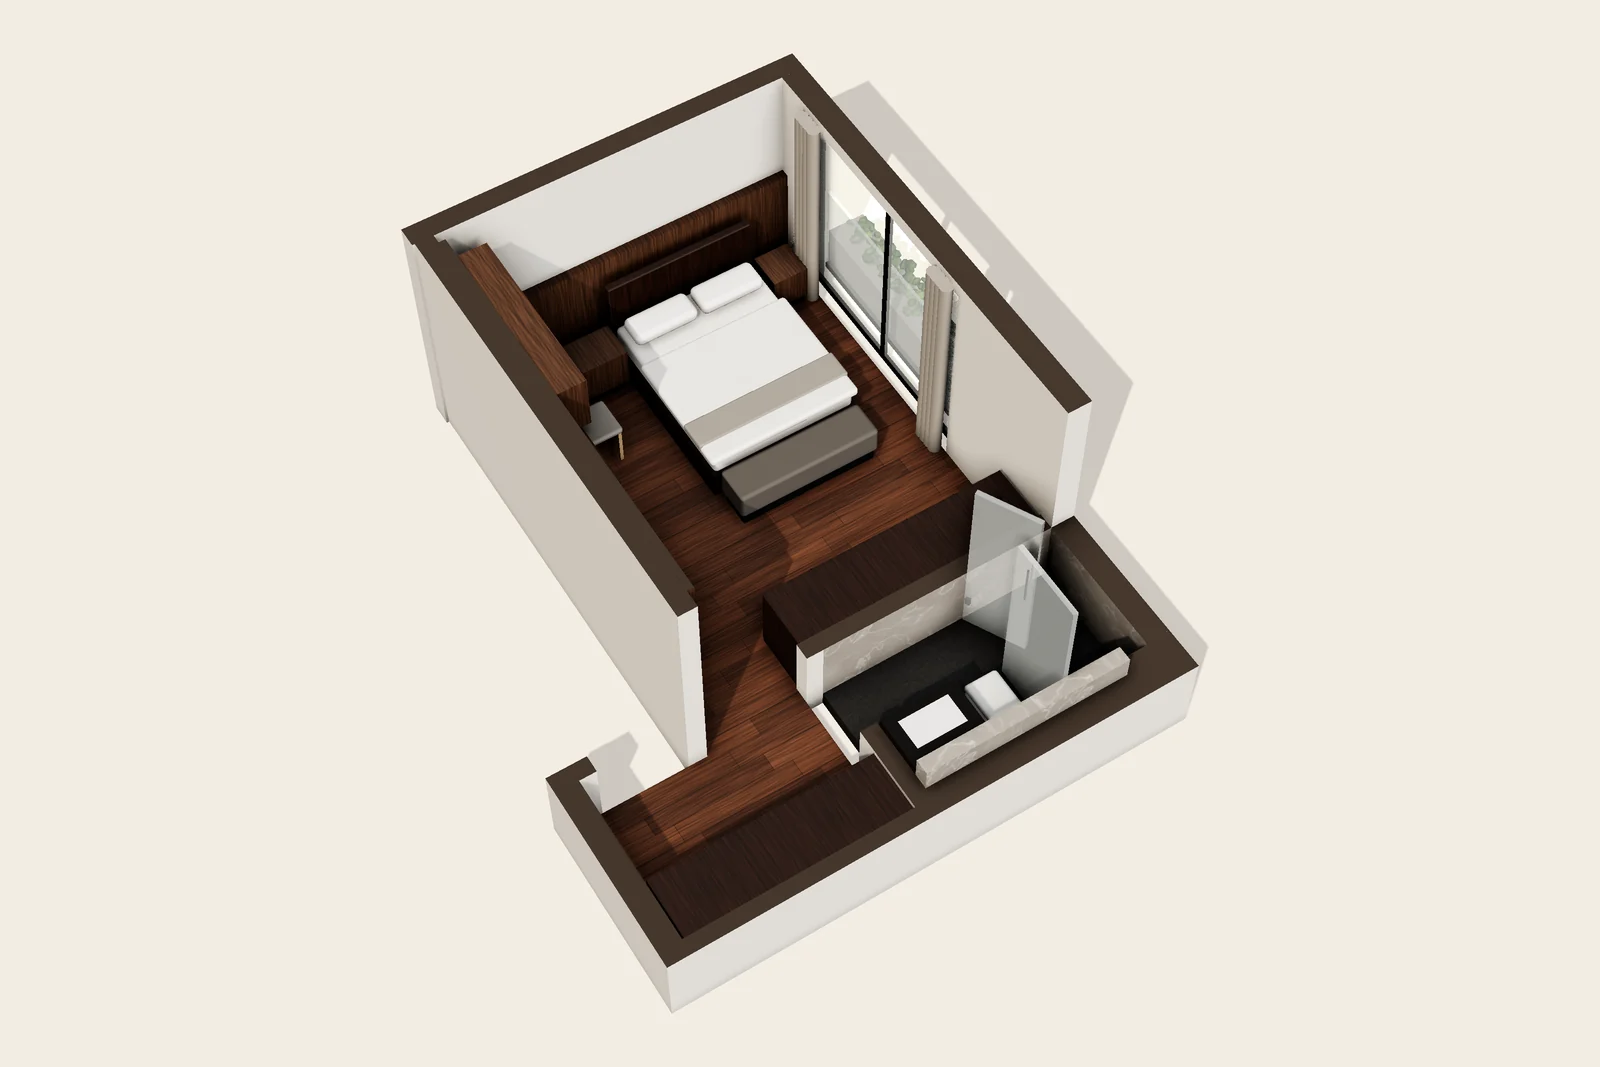
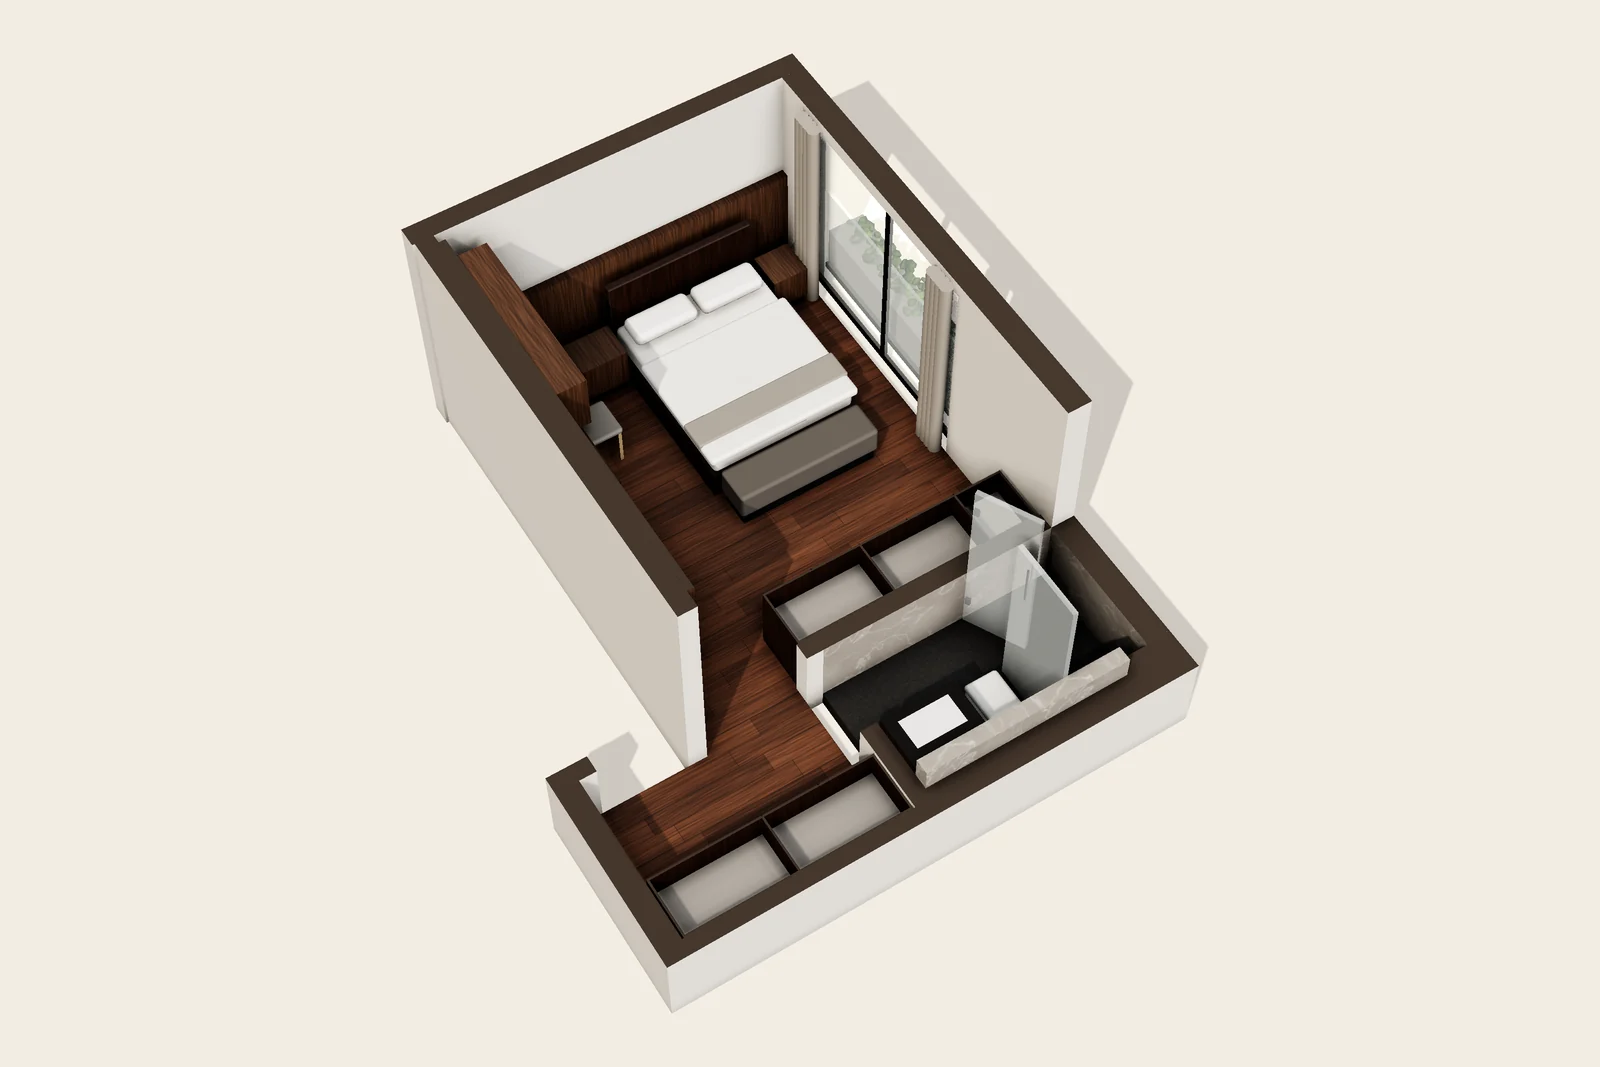
3D: living room and balcony from the photos; cut wardrobes drawn open
From the owner: follow the photos, not the plan.
- Living room as photographed: walnut panelling across the TV wall,
  floating console, two tall speakers, the sofa facing the TV with the
  coffee table and both ottomans in front of it.
- Open balcony: no furniture, no planters along the side screens;
  tall slatted screens at the sides, a black railing along the front
  with the hedge behind it, browner deck boards.
- No bar stools at the kitchen island.
- Wardrobes on the camera side are drawn cut open (panels in section,
  grey interior, shelf) instead of as low boxes, which read as benches
  in the entrance foyer; side screens are cut the same way. In Walk
  around everything is full height.

Changed region(s): [[0.4062, 0.7113, 0.5938, 0.866], [0.4688, 0.433, 0.6562, 0.6186]]

diff --git a/assets/js/rooms3d.js b/assets/js/rooms3d.js
@@ -149,6 +149,7 @@ export function materials() {
   const tex = {
     floor: texture(1024, 2.4, planks({ seed: 3, dark: 0x3e2517, light: 0x7a4b2f, rows: 13 })),   // 18 cm boards
     deck: texture(1024, 2.4, planks({ seed: 9, dark: 0x8a7766, light: 0xb7a48f, rows: 12, seam: 0.7 })),
+    deckWarm: texture(1024, 2.4, planks({ seed: 41, dark: 0x5e4535, light: 0x8f6f58, rows: 12, seam: 0.7 })),
     walnut: texture(1024, 1.2, veneer({ seed: 5, dark: 0x3a2619, light: 0x6e4a32 })),
     marble: texture(1024, 1.2, marble({ seed: 11, base: 0x9a948d, vein: 0xd9d4cc })),
     granite: texture(512, 0.6, speckle({ seed: 13, base: 0x2d2c2b, amount: 0.04 })),
@@ -163,6 +164,7 @@ export function materials() {
     poche: std({ color: 0x3b3129, roughness: 1 }),
     floor: std({ map: tex.floor, roughness: 0.5 }),
     deck: std({ map: tex.deck, roughness: 0.85 }),
+    deckWarm: std({ map: tex.deckWarm, roughness: 0.85 }),
     stone: std({ map: tex.granite, roughness: 0.45 }),
     limestone: std({ map: tex.limestone, roughness: 0.35 }),
     darkStone: std({ map: tex.darkStone, roughness: 0.3 }),
@@ -192,6 +194,7 @@ export function materials() {
     tile: std({ map: tex.tile, roughness: 0.5 }),
     paving: std({ map: tex.paving, roughness: 0.8 }),
     carPaint: std({ color: 0x3b4044, roughness: 0.25, metalness: 0.6 }),
+    interior: std({ color: 0x8f8b86, roughness: 0.8 }),
     ceiling: std({ color: 0xf2efea, roughness: 0.95, emissive: 0xf2efea, emissiveIntensity: 0.35 }),
     pot: std({ color: 0x4f4b47, roughness: 0.8 }),
     leaf: std({ color: 0x4a6636, roughness: 0.8, flatShading: true }),
@@ -251,7 +254,7 @@ export class Builder {
     const mesh = new THREE.Mesh(geo, [this.m[mat], this.m.poche]);
     mesh.position.y = lift;
     this.floors.push(poly);
-    if (mat !== "deck") this.roofed.push(poly);
+    if (!mat.startsWith("deck")) this.roofed.push(poly);   // outdoor decks have no ceiling
     return this.add(mesh);
   }
 
@@ -401,18 +404,48 @@ export class Builder {
     this.box(x0 + 4, y0 + 4, x1 - 4, y1 - 4, 0, 0.14, "black");
   }
 
-  // Full height, so it is cut with the walls when it stands on the camera side.
+  // Full height, so it is cut with the walls when it stands on the camera side; cut, it shows as a
+  // wardrobe sliced open (openCarcass) rather than a low solid box, which would read as a bench.
   wardrobe(x0, y0, x1, y1, front, h = this.H - 0.05) {
     const body = this.wall(x0, y0, x1, y1, { h1: h, mat: "walnutDark", furniture: true });
     const alongY = front === "e" || front === "w";
     const [a, b] = alongY ? [y0, y1] : [x0, x1];
     const doors = Math.max(2, Math.round(px(b - a) / 0.5));
+    body.cutAs = () => this.openCarcass(x0, y0, x1, y1, alongY, doors);
     for (let i = 1; i < doors; i++) {
       const p = a + (b - a) * i / doors;
       const g = { n: [p - 0.6, y0 - 0.6, p + 0.6, y0 + 1], s: [p - 0.6, y1 - 1, p + 0.6, y1 + 0.6],
         w: [x0 - 0.6, p - 0.6, x0 + 1, p + 0.6], e: [x1 - 1, p - 0.6, x1 + 0.6, p + 0.6] }[front];
       this.wall(...g, { h0: 0.02, h1: h - 0.02, mat: "black", furniture: true, follow: body });
     }
+  }
+
+  // A wardrobe cut at LOW: panels and doors in section (dark tops, like the cut walls), its grey
+  // interior with a shelf, and a partition between every second pair of doors.
+  openCarcass(x0, y0, x1, y1, alongY, doors) {
+    const group = new THREE.Group(), t = 2.5;   // 2 cm panels
+    const cut = [this.m.walnutDark, this.m.walnutDark, this.m.poche, this.m.walnutDark, this.m.walnutDark, this.m.walnutDark];
+    const panel = (a, b, c, d, h0, h1, mat) => {
+      const w = px(c - a), dd = px(d - b), geo = new THREE.BoxGeometry(w, h1 - h0, dd);
+      metricUV(geo, w, h1 - h0, dd);
+      const mesh = new THREE.Mesh(geo, mat);
+      mesh.position.set(px(a + c) / 2, (h0 + h1) / 2, px(b + d) / 2);
+      mesh.castShadow = mesh.receiveShadow = true;
+      group.add(mesh);
+    };
+    panel(x0, y0, x1, y0 + t, 0, LOW, cut);
+    panel(x0, y1 - t, x1, y1, 0, LOW, cut);
+    panel(x0, y0, x0 + t, y1, 0, LOW, cut);
+    panel(x1 - t, y0, x1, y1, 0, LOW, cut);
+    panel(x0 + t, y0 + t, x1 - t, y1 - t, 0, 0.1, this.m.interior);
+    panel(x0 + t, y0 + t, x1 - t, y1 - t, 0.44, 0.46, this.m.interior);
+    for (let i = 2; i < doors; i += 2) {
+      const p = (alongY ? y0 + (y1 - y0) * i / doors : x0 + (x1 - x0) * i / doors);
+      if (alongY) panel(x0 + t, p - t / 2, x1 - t, p + t / 2, 0, LOW, cut);
+      else panel(p - t / 2, y0 + t, p + t / 2, y1 - t, 0, LOW, cut);
+    }
+    this.group.add(group);
+    return group;
   }
 
   // Curtain gathered at the side of a window: a row of vertical folds.
@@ -484,18 +517,21 @@ export class Builder {
     part(new THREE.CylinderGeometry(R * 0.45, R * 0.45, 0.03, 48), "black", 0, 0.015, 0);
   }
 
+  // Round, in tiers: a black glass top on a polished drum, over a wider black glass disc.
   coffeeTable(cx, cy, r) {
     this.solid(cx - r, cy - r, cx + r, cy + r);
     const part = this.piece(cx, cy, 0), R = px(r);
-    part(new THREE.CylinderGeometry(R, R, 0.04, 64), "tv", 0, 0.4, 0);
-    part(new THREE.CylinderGeometry(R * 0.82, R * 0.82, 0.36, 64), "brass", 0, 0.19, 0);
+    part(new THREE.CylinderGeometry(R, R, 0.03, 64), "tv", 0, 0.1, 0);
+    part(new THREE.CylinderGeometry(R * 0.78, R * 0.78, 0.26, 64), "chrome", 0, 0.24, 0);
+    part(new THREE.CylinderGeometry(R * 0.8, R * 0.8, 0.03, 64), "tv", 0, 0.385, 0);
   }
 
-  barStool(cx, cy) {
+  // A tall slim floor speaker: wooden slatted body on a polished stem.
+  speaker(cx, cy) {
+    this.solid(cx - 8, cy - 8, cx + 8, cy + 8);
     const part = this.piece(cx, cy, 0);
-    part(new THREE.CylinderGeometry(0.19, 0.19, 0.07, 32), "chairFabric", 0, 0.68, 0);
-    part(new THREE.CylinderGeometry(0.02, 0.02, 0.64, 12), "chrome", 0, 0.32, 0);
-    part(new THREE.CylinderGeometry(0.2, 0.2, 0.02, 32), "chrome", 0, 0.01, 0);
+    part(new THREE.CylinderGeometry(0.015, 0.06, 0.9, 16), "chrome", 0, 0.45, 0);
+    part(new RoundedBoxGeometry(0.13, 1.05, 0.09, 3, 0.03), "oak", 0, 1.43, 0);
   }
 
   ottoman(cx, cy, s = 25) {
@@ -512,19 +548,6 @@ export class Builder {
     this.box(...s(0, 0, 0.07, 1), 0.4, 0.64, "sofa", { round: 0.05 });
     this.box(...s(0.93, 0, 1, 1), 0.4, 0.64, "sofa", { round: 0.05 });
     for (let i = 0; i < 3; i++) this.box(...s(0.07 + i * 0.86 / 3 + 0.005, 0.24, 0.07 + (i + 1) * 0.86 / 3 - 0.005, 0.98), 0.4, 0.55, "sofa", { round: 0.06 });
-  }
-
-  // A round outdoor lounger.
-  daybed(cx, cy, r) {
-    this.solid(cx - r, cy - r, cx + r, cy + r);
-    const part = this.piece(cx, cy, 0), R = px(r);
-    part(new THREE.CylinderGeometry(R, R * 0.92, 0.32, 48), "pot", 0, 0.16, 0);
-    part(new THREE.CylinderGeometry(R * 0.93, R * 0.93, 0.12, 48), "sofa", 0, 0.38, 0);
-  }
-
-  sideTable(cx, cy, r) {
-    this.solid(cx - r, cy - r, cx + r, cy + r);
-    this.piece(cx, cy, 0)(new THREE.CylinderGeometry(px(r), px(r), 0.45, 32), "pot", 0, 0.225, 0);
   }
 
   // A car parked along x (the plan draws one in the car porch), for scale.
@@ -553,17 +576,28 @@ export class Builder {
     }
   }
 
-  // Black vertical slats along a rectangle's long side: a privacy screen.
-  slats(x0, y0, x1, y1, h = 1.2) {
-    this.solid(x0, y0, x1, y1);
-    const alongY = y1 - y0 > x1 - x0, [a, b] = alongY ? [y0, y1] : [x0, x1], n = Math.round(px(b - a) / 0.1);
-    for (let i = 0; i < n; i++) {
-      const p = a + (b - a) * (i + 0.5) / n;
-      if (alongY) this.box(x0, p - 2, x1, p + 2, 0, h, "black");
-      else this.box(p - 2, y0, p + 2, y1, 0, h, "black");
-    }
-    if (alongY) this.box(x0, y0, x1, y1, h, h + 0.04, "black");
-    else this.box(x0, y0, x1, y1, h, h + 0.04, "black");
+  /* Black vertical bars along a rectangle's long side, with a top rail: a slatted privacy screen,
+     or (bar 2, pitch 0.11 m) a railing. Cut with the walls when it stands on the camera side. */
+  slats(x0, y0, x1, y1, h = 1.2, { bar = 4, pitch = 0.1 } = {}) {
+    const w = this.wall(x0, y0, x1, y1, { h1: h, mat: "black", furniture: true });
+    const build = (top) => {
+      const group = new THREE.Group(), alongY = y1 - y0 > x1 - x0, [a, b] = alongY ? [y0, y1] : [x0, x1];
+      const n = Math.round(px(b - a) / pitch), piece = (r, h0, h1) => {
+        const mesh = new THREE.Mesh(new THREE.BoxGeometry(px(r[2] - r[0]), h1 - h0, px(r[3] - r[1])), this.m.black);
+        mesh.position.set(px(r[0] + r[2]) / 2, (h0 + h1) / 2, px(r[1] + r[3]) / 2);
+        mesh.castShadow = mesh.receiveShadow = true;
+        group.add(mesh);
+      };
+      for (let i = 0; i < n; i++) {
+        const p = a + (b - a) * (i + 0.5) / n;
+        piece(alongY ? [x0, p - bar / 2, x1, p + bar / 2] : [p - bar / 2, y0, p + bar / 2, y1], 0, top);
+      }
+      piece([x0, y0, x1, y1], top, top + 0.04);
+      this.group.add(group);
+      return group;
+    };
+    w.fullAs = () => build(h);
+    w.cutAs = () => build(LOW - 0.04);
   }
 
   ledge(x0, y0, x1, y1, h = 1.0) { this.solid(x0, y0, x1, y1); this.box(x0, y0, x1, y1, 0, h, "marble"); }
@@ -608,8 +642,8 @@ export class Builder {
     const xs = this.floors.flat().map((p) => p[0]), ys = this.floors.flat().map((p) => p[1]);
     this.centre = [(Math.min(...xs) + Math.max(...xs)) / 2, (Math.min(...ys) + Math.max(...ys)) / 2];
     for (const w of this.walls) {
-      w.full = this.wallMesh(w, w.h0, w.h1, w.h1 >= this.H - 1e-6);
-      w.low = w.h0 >= LOW ? null : w.h1 > LOW ? this.wallMesh(w, w.h0, LOW, true) : w.full;
+      w.full = w.fullAs ? w.fullAs() : this.wallMesh(w, w.h0, w.h1, w.h1 >= this.H - 1e-6);
+      w.low = w.h0 >= LOW ? null : w.h1 > LOW ? (w.cutAs ? w.cutAs() : this.wallMesh(w, w.h0, LOW, true)) : w.full;
     }
     this.setCut(null);
   }
@@ -932,12 +966,13 @@ export const ROOMS = {
 };
 
 // The 2nd floor (2nd-floor plan). The furniture follows the photos where they differ from the
-// plan: a round marble dining table for eight, a straight sofa and two ottomans.
+// plan (owner, 2026-10-21): a round marble dining table for eight, no stools at the island, the
+// living room as photographed, and an empty balcony with its hedge only along the front.
 function floor2(b) {
   b.floor([[227, 48], [1046, 48], [1046, 387], [1323, 387], [1323, 48], [1787, 48], [1787, 786], [163, 786], [163, 409], [227, 409]], "limestone");
   b.floor([[739, 585], [951, 585], [951, 775], [739, 775]], "stone", 0.004);     // powder room
   b.floor([[981, 585], [1171, 585], [1171, 777], [981, 777]], "deck", 0.004);    // lift car
-  b.floor([[1796, 37], [2285, 37], [2285, 805], [1796, 805]], "deck", -0.03);    // open balcony
+  b.floor([[1796, 37], [2289, 37], [2289, 805], [1796, 805]], "deckWarm", -0.03); // open balcony
 
   // outside walls (in lengths, so each is cut on its own); glazing at the rear and onto the balcony
   b.wall(202, 26, 739, 48);
@@ -996,7 +1031,6 @@ function floor2(b) {
   b.solid(346, 257, 595, 364);
   b.box(352, 257, 589, 340, 0, 0.88, "walnut");                      // island
   b.box(346, 257, 595, 364, 0.88, 0.93, "darkStone");
-  for (const x of [400, 470, 541]) b.barStool(x, 376);
 
   // wet kitchen
   b.counter(739, 57, 1016, 140);
@@ -1015,29 +1049,28 @@ function floor2(b) {
   b.toilet(769, 675, 815, 757);
   b.vanity(845, 692, 951, 757, [868, 702, 928, 740]);
 
-  // living room
-  b.wall(1400, 57, 1700, 64, { mat: "walnut" });                     // TV wall
-  b.wall(1451, 64, 1650, 70, { h0: 0.9, h1: 1.75, mat: "tv" });
-  b.solid(1412, 69, 1690, 110);
-  b.box(1412, 69, 1690, 110, 0.12, 0.42, "walnut");                  // console
-  b.sofa([1410, 600, 1710, 712], "n");
-  b.coffeeTable(1506, 503, 53);
-  b.ottoman(1428, 455);
-  b.ottoman(1428, 395);
+  // living room, as in the photos (not the plan): walnut panelling across the TV wall, a floating
+  // console, two tall speakers; a three-seat sofa facing the TV, round coffee table, two ottomans
+  b.wall(1353, 57, 1730, 64, { h1: 2.4, mat: "walnut" });           // TV wall
+  b.wall(1420, 64, 1650, 70, { h0: 0.95, h1: 2.05, mat: "tv" });
+  b.solid(1380, 64, 1700, 118);
+  b.box(1380, 64, 1700, 118, 0.15, 0.48, "walnut");                  // console
+  for (const x of [1487, 1593]) b.box(x - 0.5, 117.5, x + 0.5, 118.6, 0.17, 0.46, "black");
+  b.speaker(1398, 82);
+  b.speaker(1672, 82);
+  b.coffeeTable(1500, 242, 53);
+  b.ottoman(1606, 214, 29);
+  b.ottoman(1670, 214, 29);
+  b.sofa([1378, 352, 1683, 470], "n");
   b.curtain(1770, 97, 1784, 147);
   b.curtain(1770, 705, 1784, 755);
 
-  // open balcony: slatted screens at the sides, a planted edge at the front
-  b.slats(1796, 26, 2395, 37);
-  b.slats(1796, 805, 2395, 817);
-  b.planter(2285, 55, 2370, 790);
-  b.planter(1830, 40, 2270, 72);
-  b.planter(1830, 770, 2270, 802);
-  b.box(2378, 37, 2386, 805, 1.05, 1.1, "black");
-  for (let y = 37; y <= 805; y += 118) b.box(2377, y - 2, 2387, y + 2, 0, 1.05, "black");
-  b.daybed(2105, 590, 70);
-  b.sideTable(2147, 498, 25);
-  b.sideTable(2010, 635, 25);
+  // open balcony, as in the photos (not the plan): empty, tall slatted screens at the sides, a black
+  // railing along the front with the hedge planted behind it
+  b.slats(1796, 26, 2395, 37, 1.6);
+  b.slats(1796, 805, 2395, 817, 1.6);
+  b.slats(2283, 37, 2289, 805, 1.1, { bar: 2, pitch: 0.11 });
+  b.planter(2289, 45, 2390, 797);
 }
 
 // The 1st floor's shared part (1st-floor plan). Bedroom 1, its bathroom and the store are private

diff --git a/README.md b/README.md
@@ -32,7 +32,7 @@ This is a static template with no dependencies: plain HTML, CSS and a little van
 - **Prices:** shown on `index.html` (room cards), `rooms.html` (each room), `features.html` and `area.html` ("from S$…"), and the same pages in each language folder. Keep them all in step.
 - **Photos:** `assets/img/<room>/`, as **WebP, max 1600 px** (converted 2026-10-10; the site was 25 MB of JPEGs, now ~9 MB). Galleries are plain `<figure><img></figure>` lists, so add, remove or reorder freely. Any element with class `placeholder` stands in for a photo that hasn't been taken yet.
 - **Floor plans:** `assets/img/plans/` holds whole-floor plans with one area highlighted (rooms: one image per room and floor; Features: the shared spaces on floors 1, 2 and 5). They are drawn by `tools/floor_plans.py` from 300-dpi renders of the architect's PDF, which is kept **off** the repo (`~/Documents/`). The script relabels rooms with the site's names and holds each highlight's outline.
-- **3D room views:** each room's gallery starts with a 3D cutaway picture (`assets/img/<room>/*-3d.webp`; one each for Aurelia, Elysia 4, Elysia 3, Deluxe Queen 3/4, Deluxe Twin 3/4, and Deluxe Queen 1 and Deluxe Twin 1 with their rear terraces), and the Features floor plans are each preceded by a 3D picture of the shared spaces (`assets/img/features/shared-*-3d.webp`: 1st-floor entrance and car porch; 2nd-floor kitchen and dining, and living room and balcony; 5th-floor laundry). The 2nd floor's furniture follows the photos where they differ from the plan (round dining table, straight sofa) with an "Explore in 3D" button to `3d/`. The rooms are modelled once in `assets/js/rooms3d.js` from the architect's plan (walls, doors, windows and the plan's furniture layout, measured from the same 300-dpi renders) with finishes matched to the photos; both the pictures and `3d/` use it. After changing a room, re-render the pictures with `python3 tools/render_rooms_3d.py` (headless Chrome + Pillow; three.js loads from a CDN); `tools/rooms_3d.html?room=aurelia` on the local server shows one. Bathroom doors are pocket doors: the opening is where the plan draws a thin panel, the pocket where it draws three lines (the owner confirmed the queen rooms' doors on 2026-10-21). The wall behind a wardrobe is never cut, at the owner's choice. Captions say "illustrative": the furniture follows the plan, which may not match each room exactly.
+- **3D room views:** each room's gallery starts with a 3D cutaway picture (`assets/img/<room>/*-3d.webp`; one each for Aurelia, Elysia 4, Elysia 3, Deluxe Queen 3/4, Deluxe Twin 3/4, and Deluxe Queen 1 and Deluxe Twin 1 with their rear terraces), and the Features floor plans are each preceded by a 3D picture of the shared spaces (`assets/img/features/shared-*-3d.webp`: 1st-floor entrance and car porch; 2nd-floor kitchen and dining, and living room and balcony; 5th-floor laundry). Furniture follows the photos where they differ from the plan (the owner's rule): on the 2nd floor a round dining table, no stools at the island, the living room as photographed, an empty balcony; no rugs anywhere. Wardrobes nearest the camera are drawn cut open so they don't read as benches; in Walk around they are full height with an "Explore in 3D" button to `3d/`. The rooms are modelled once in `assets/js/rooms3d.js` from the architect's plan (walls, doors, windows and the plan's furniture layout, measured from the same 300-dpi renders) with finishes matched to the photos; both the pictures and `3d/` use it. After changing a room, re-render the pictures with `python3 tools/render_rooms_3d.py` (headless Chrome + Pillow; three.js loads from a CDN); `tools/rooms_3d.html?room=aurelia` on the local server shows one. Bathroom doors are pocket doors: the opening is where the plan draws a thin panel, the pocket where it draws three lines (the owner confirmed the queen rooms' doors on 2026-10-21). The wall behind a wardrobe is never cut, at the owner's choice. Captions say "illustrative": the furniture follows the plan, which may not match each room exactly.
 
 ## Photo correction
 
